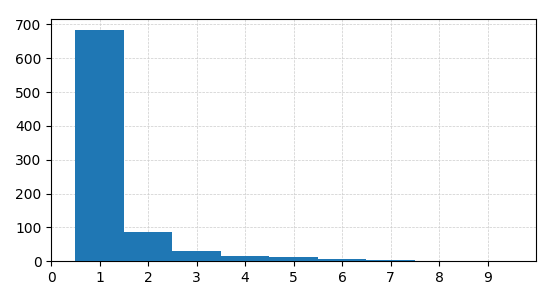
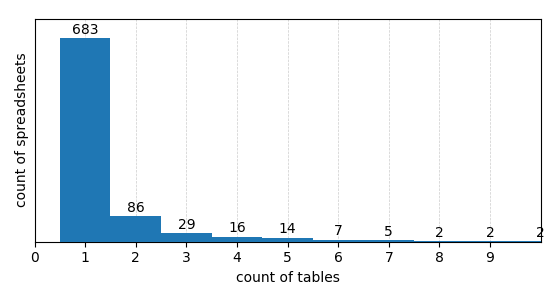
putting labels un all bars

diff --git a/src/graph/Table_per_Sheet_Graph.py b/src/graph/Table_per_Sheet_Graph.py
@@ -3,6 +3,7 @@ import pandas as pd
 import matplotlib.pyplot as plt
 import numpy as np
 import seaborn as sns
+from matplotlib.pyplot import gca
 
 class Table_per_Sheet_Graph:
     count_tables = []
@@ -16,13 +17,28 @@ class Table_per_Sheet_Graph:
         plt.cla()
         plt.figure(figsize=[5.6, 3])
         plt.xlim([0, 10])
+        plt.ylim([0, 750])
+        plt.xticks(np.arange(0, 10, 1.0))
+        plt.yticks([])
+        plt.xlabel('count of tables')
+        plt.ylabel('count of spreadsheets')
         plt.grid(color='#cccccc', linestyle='--', linewidth=0.5, zorder=0)
-        sns.distplot(self.tables_per_sheet, bins=124, hist=True, kde=False,
+        ax = sns.distplot(self.tables_per_sheet, bins=124, hist=True, kde=False,
                      hist_kws={ 'zorder': 3,  'alpha':1.0, 'align': 'left' })
+
+
+        rects = ax.patches[:10]
+        labels = [int(h.get_height()) for h in ax.patches][:10]
+
+        # numbers on bars
+        for rect, label in zip(rects, labels):
+            height = rect.get_height()
+            plt.text(rect.get_x() + rect.get_width() / 2, height + 5, label,
+                    ha='center', va='bottom')
+
         plt.tight_layout()
 
 
-        plt.xticks(np.arange(0, 10, 1.0))
         #plt.show()
         plt.savefig('images/table_count_per_file.png')
 

diff --git a/src/graph/Coverage_Graph.py b/src/graph/Coverage_Graph.py
@@ -16,15 +16,28 @@ class Coverage_Graph:
         plt.cla()
         plt.figure(figsize= [5.6, 3])
         #plt.xlim([0,1.1])
+        plt.yticks([])
+        plt.xlabel('')
+        plt.ylabel('')
 
         plt.xticks([ 0, .1, .2, .3, .4, .5, .6, .7, .8, .9, 1])
         plt.grid(color='#cccccc', linestyle='--', linewidth=0.5, zorder=0)
-        sns.distplot(self.coverage_per_table, bins=10, hist=True, kde=False,
+        ax = sns.distplot(self.coverage_per_table, bins=10, hist=True, kde=False,
                      hist_kws={'zorder': 3,  'alpha': 1.0, 'align': 'right'})
+
+        rects = ax.patches
+        labels = [int(h.get_height()) for h in ax.patches]
+
+        # numbers on bars
+        for rect, label in zip(rects, labels):
+            height = rect.get_height()
+            plt.text(rect.get_x() + rect.get_width() / 2, height + 5, label,
+                    ha='center', va='bottom')
+
         plt.tight_layout()
 
         #plt.show()
-        plt.savefig('images/coverage_over_tables.png')
+        plt.savefig('images/coverage_over_sheets.png')
 
 
     def _getCoverageValues(self):

diff --git a/src/graph/Visible_Cells_per_Table_Graph.py b/src/graph/Visible_Cells_per_Table_Graph.py
@@ -15,14 +15,27 @@ class Visible_Cells_per_Table_Graph:
         plt.clf()
         plt.cla()
         plt.figure(figsize= [5.6, 3])
+        plt.xlabel('')
+        plt.ylabel('')
 
         #plt.xlim([0,1])
+        plt.ylim([0,680])
         plt.xticks([0, .1, .2, .3, .4, .5, .6, .7, .8, .9, 1])
+        plt.yticks([])
 
         plt.grid(color='#cccccc', linestyle='--', linewidth=0.5, zorder=0)
-        sns.distplot(self.ratio_filled_cells_per_table, bins=10, hist=True, kde=False,
+        ax = sns.distplot(self.ratio_filled_cells_per_table, bins=10, hist=True, kde=False,
                      hist_kws={'zorder': 3, 'alpha':1.0, 'align': 'right'})
         plt.tight_layout()
+
+        rects = ax.patches
+        labels = [int(h.get_height()) for h in ax.patches]
+
+        # numbers on bars
+        for rect, label in zip(rects, labels):
+            height = rect.get_height()
+            plt.text(rect.get_x() + rect.get_width() / 2, height + 5, label,
+                    ha='center', va='bottom')
 
         #plt.show()
         plt.savefig('images/ratio_visible_cells_per_table.png')

diff --git a/src/graph/Width_Height_Ratio_Graph.py b/src/graph/Width_Height_Ratio_Graph.py
@@ -16,12 +16,27 @@ class Width_Height_Ratio_Graph:
         plt.clf()
         plt.cla()
         plt.figure(figsize=[5.6, 3])
-        plt.xlim([0, 5])
+        plt.xlim([0, 5.05])
+        plt.ylim([0,770])
+        plt.xlabel('ratio value')
+        plt.ylabel('count of tables')
 
        # plt.xticks(np.arange(0, 2, step=0.2))
+        plt.yticks([])
         plt.grid(color='#cccccc', linestyle='--', linewidth=0.5, zorder=0)
-        sns.distplot(self.width_height_ratio_per_table, bins='auto', hist=True, kde=False,
+        ax = sns.distplot(self.width_height_ratio_per_table, bins=31, hist=True, kde=False,
                      hist_kws={'zorder': 3, 'alpha': 1.0})
+
+
+        rects = ax.patches[:15]
+        labels = [int(h.get_height()) for h in ax.patches][:15]
+
+        # numbers on bars
+        for rect, label in zip(rects, labels):
+            height = rect.get_height()
+            plt.text(rect.get_x() + rect.get_width() / 2, height + 5, label,
+                    ha='center', va='bottom')
+
         plt.tight_layout()
 
         # plt.show()

diff --git a/src/graph/GraphManager.py b/src/graph/GraphManager.py
@@ -14,7 +14,7 @@ class GraphManager:
         self.dbconnector = dbconnector
 
         tableCountGraph = Table_per_Sheet_Graph(dbconnector)
-        #tableStats = TableStats(dbconnector)
+        tableStats = TableStats(dbconnector)
         labelCountGraph = Sheets_With_Label_Graph(dbconnector)
         hiddenCellsGraph = Visible_Cells_per_Table_Graph(dbconnector)
         densityGraph = Density_Graph(dbconnector)
@@ -22,7 +22,7 @@ class GraphManager:
         widthHeightGraph = Width_Height_Ratio_Graph(dbconnector)
 
 
-        self.graphsForDrawing = [ tableCountGraph, labelCountGraph, hiddenCellsGraph, densityGraph, coverageGraph, widthHeightGraph ]
+        self.graphsForDrawing = [ tableCountGraph, labelCountGraph, hiddenCellsGraph, densityGraph, coverageGraph, widthHeightGraph, tableStats ]
 
     def draw(self):
         for graph in self.graphsForDrawing:

diff --git a/src/graph/Sheets_With_Label_Graph.py b/src/graph/Sheets_With_Label_Graph.py
@@ -24,8 +24,11 @@ class Sheets_With_Label_Graph:
         y_pos = np.arange(len(bars))
 
 
-        plt.ylim([0,500])
+        plt.xlabel('labels')
+        plt.ylabel('count of spreadsheets')
+        plt.ylim([0,950])
         plt.xticks(y_pos, bars, rotation=40, horizontalalignment='right')
+        plt.yticks([])
         plt.grid(color='#cccccc', linestyle='--', linewidth=0.5, zorder=0)
         ax = plt.bar(y_pos, height, zorder=3)
 
@@ -46,6 +49,6 @@ class Sheets_With_Label_Graph:
 
 
     def _getLabelCount(self):
-        sql = 'select count(DISTINCT sheet_name), cell_label from cell_annotations group by cell_label'
+        sql = 'select count(DISTINCT file_name), cell_label from cell_annotations group by cell_label'
         result = self.dbconnector.execute(sql)
         return result
